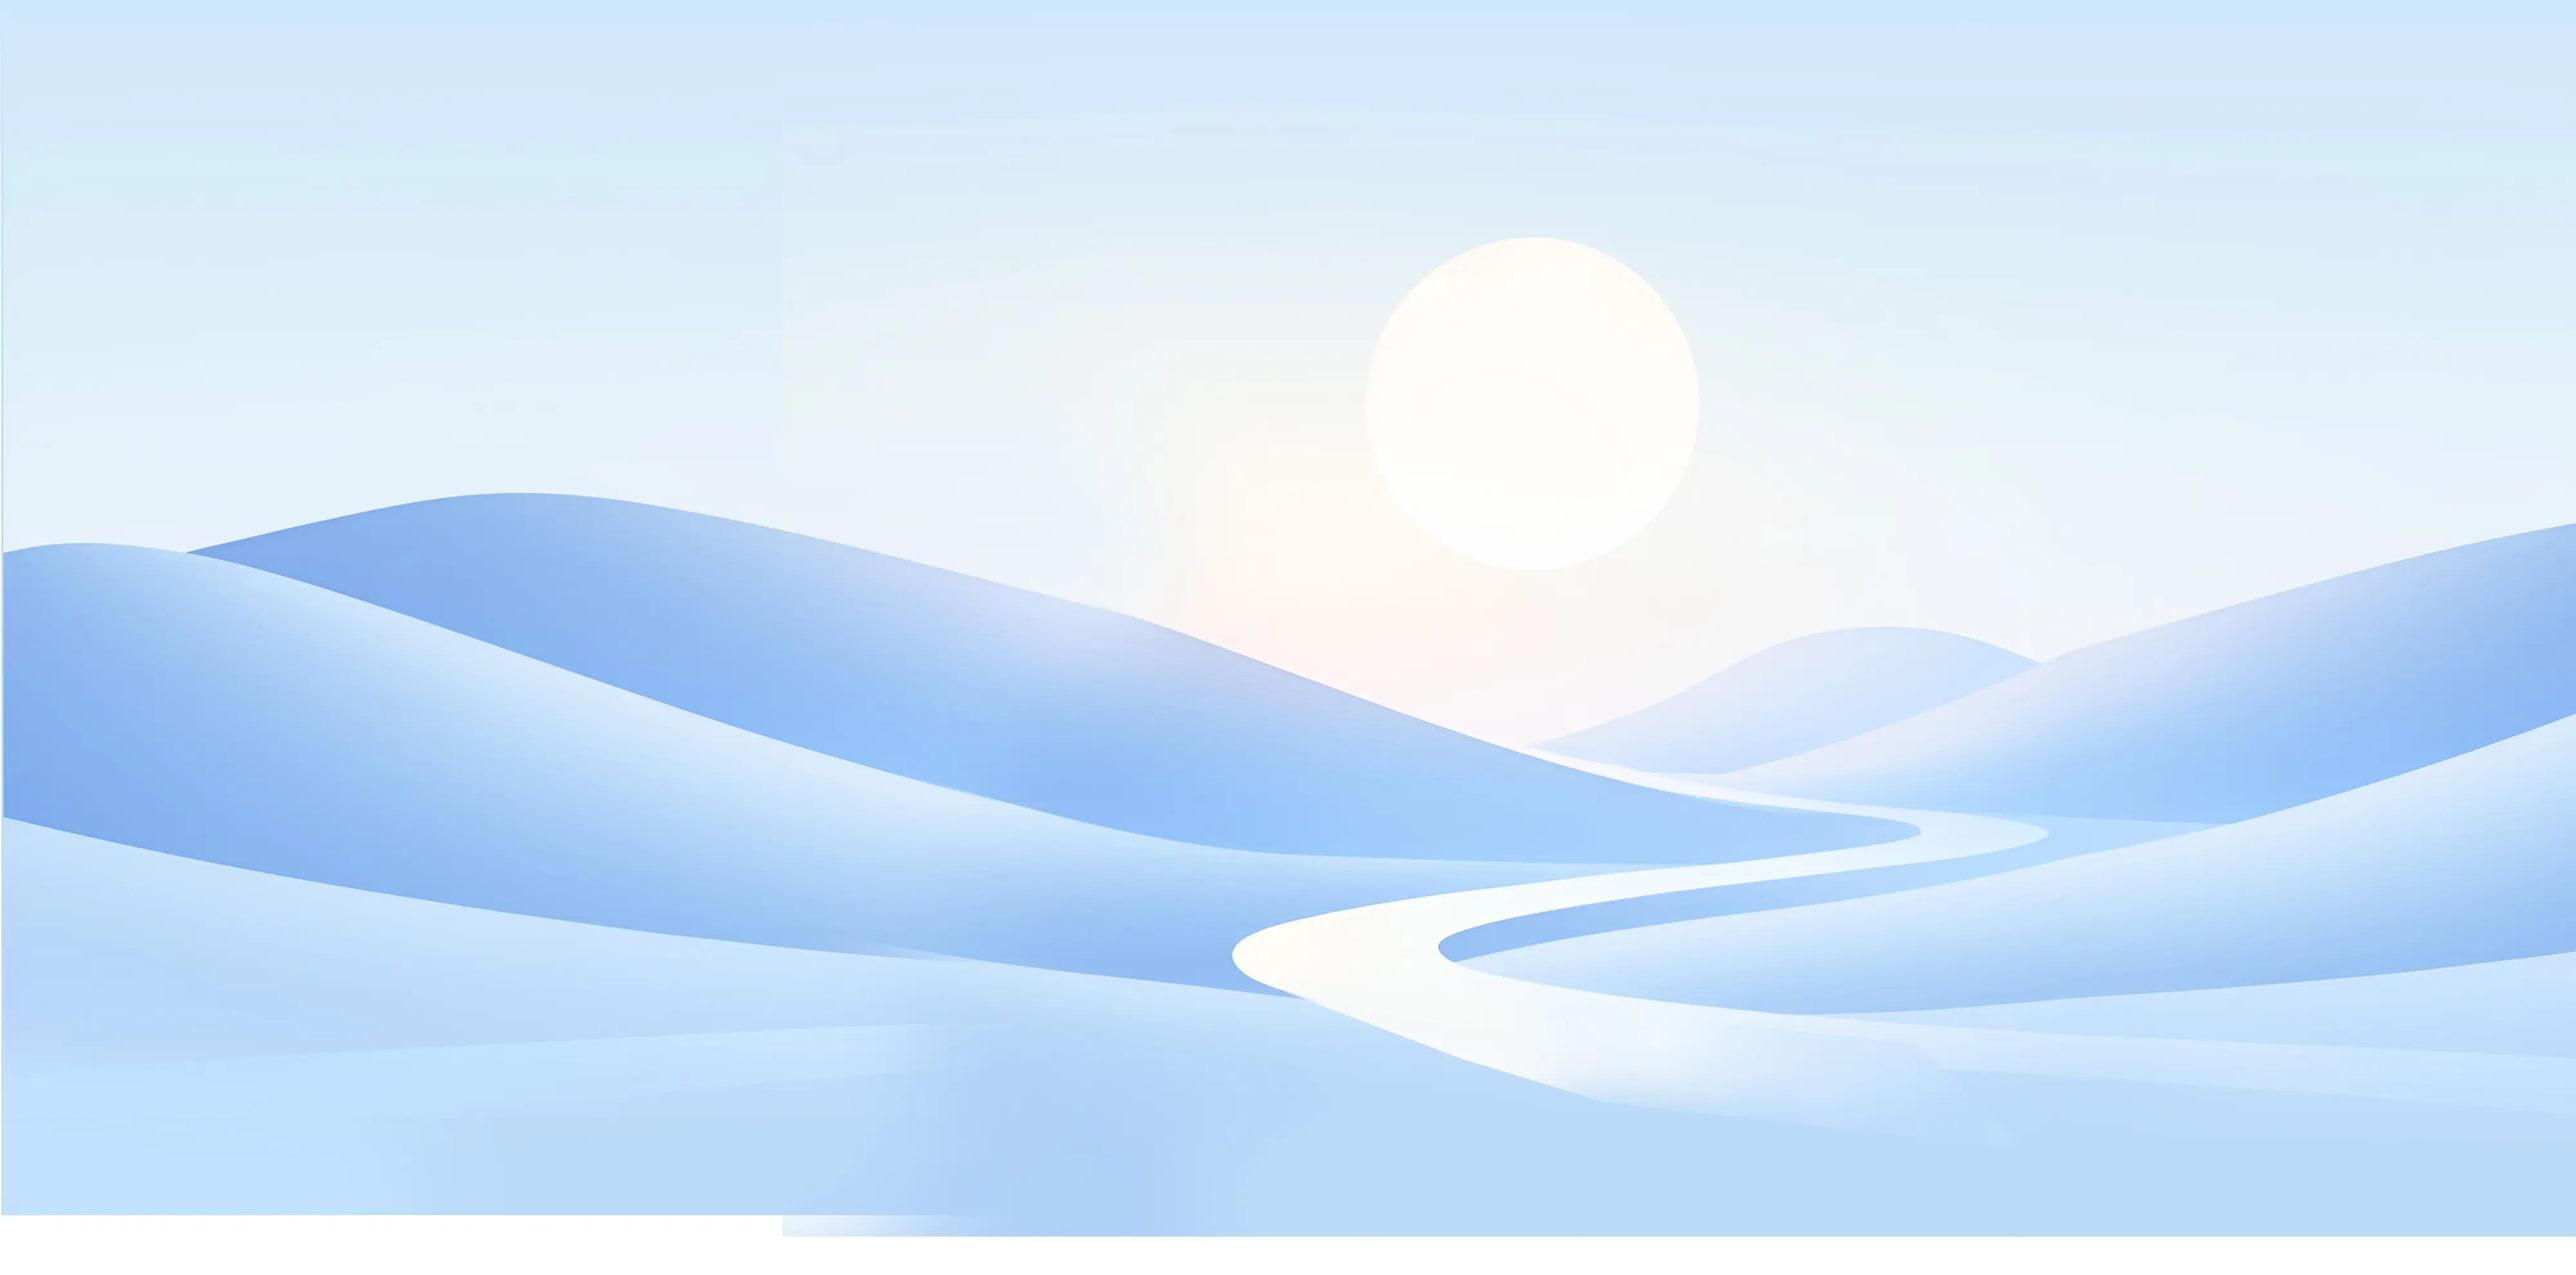
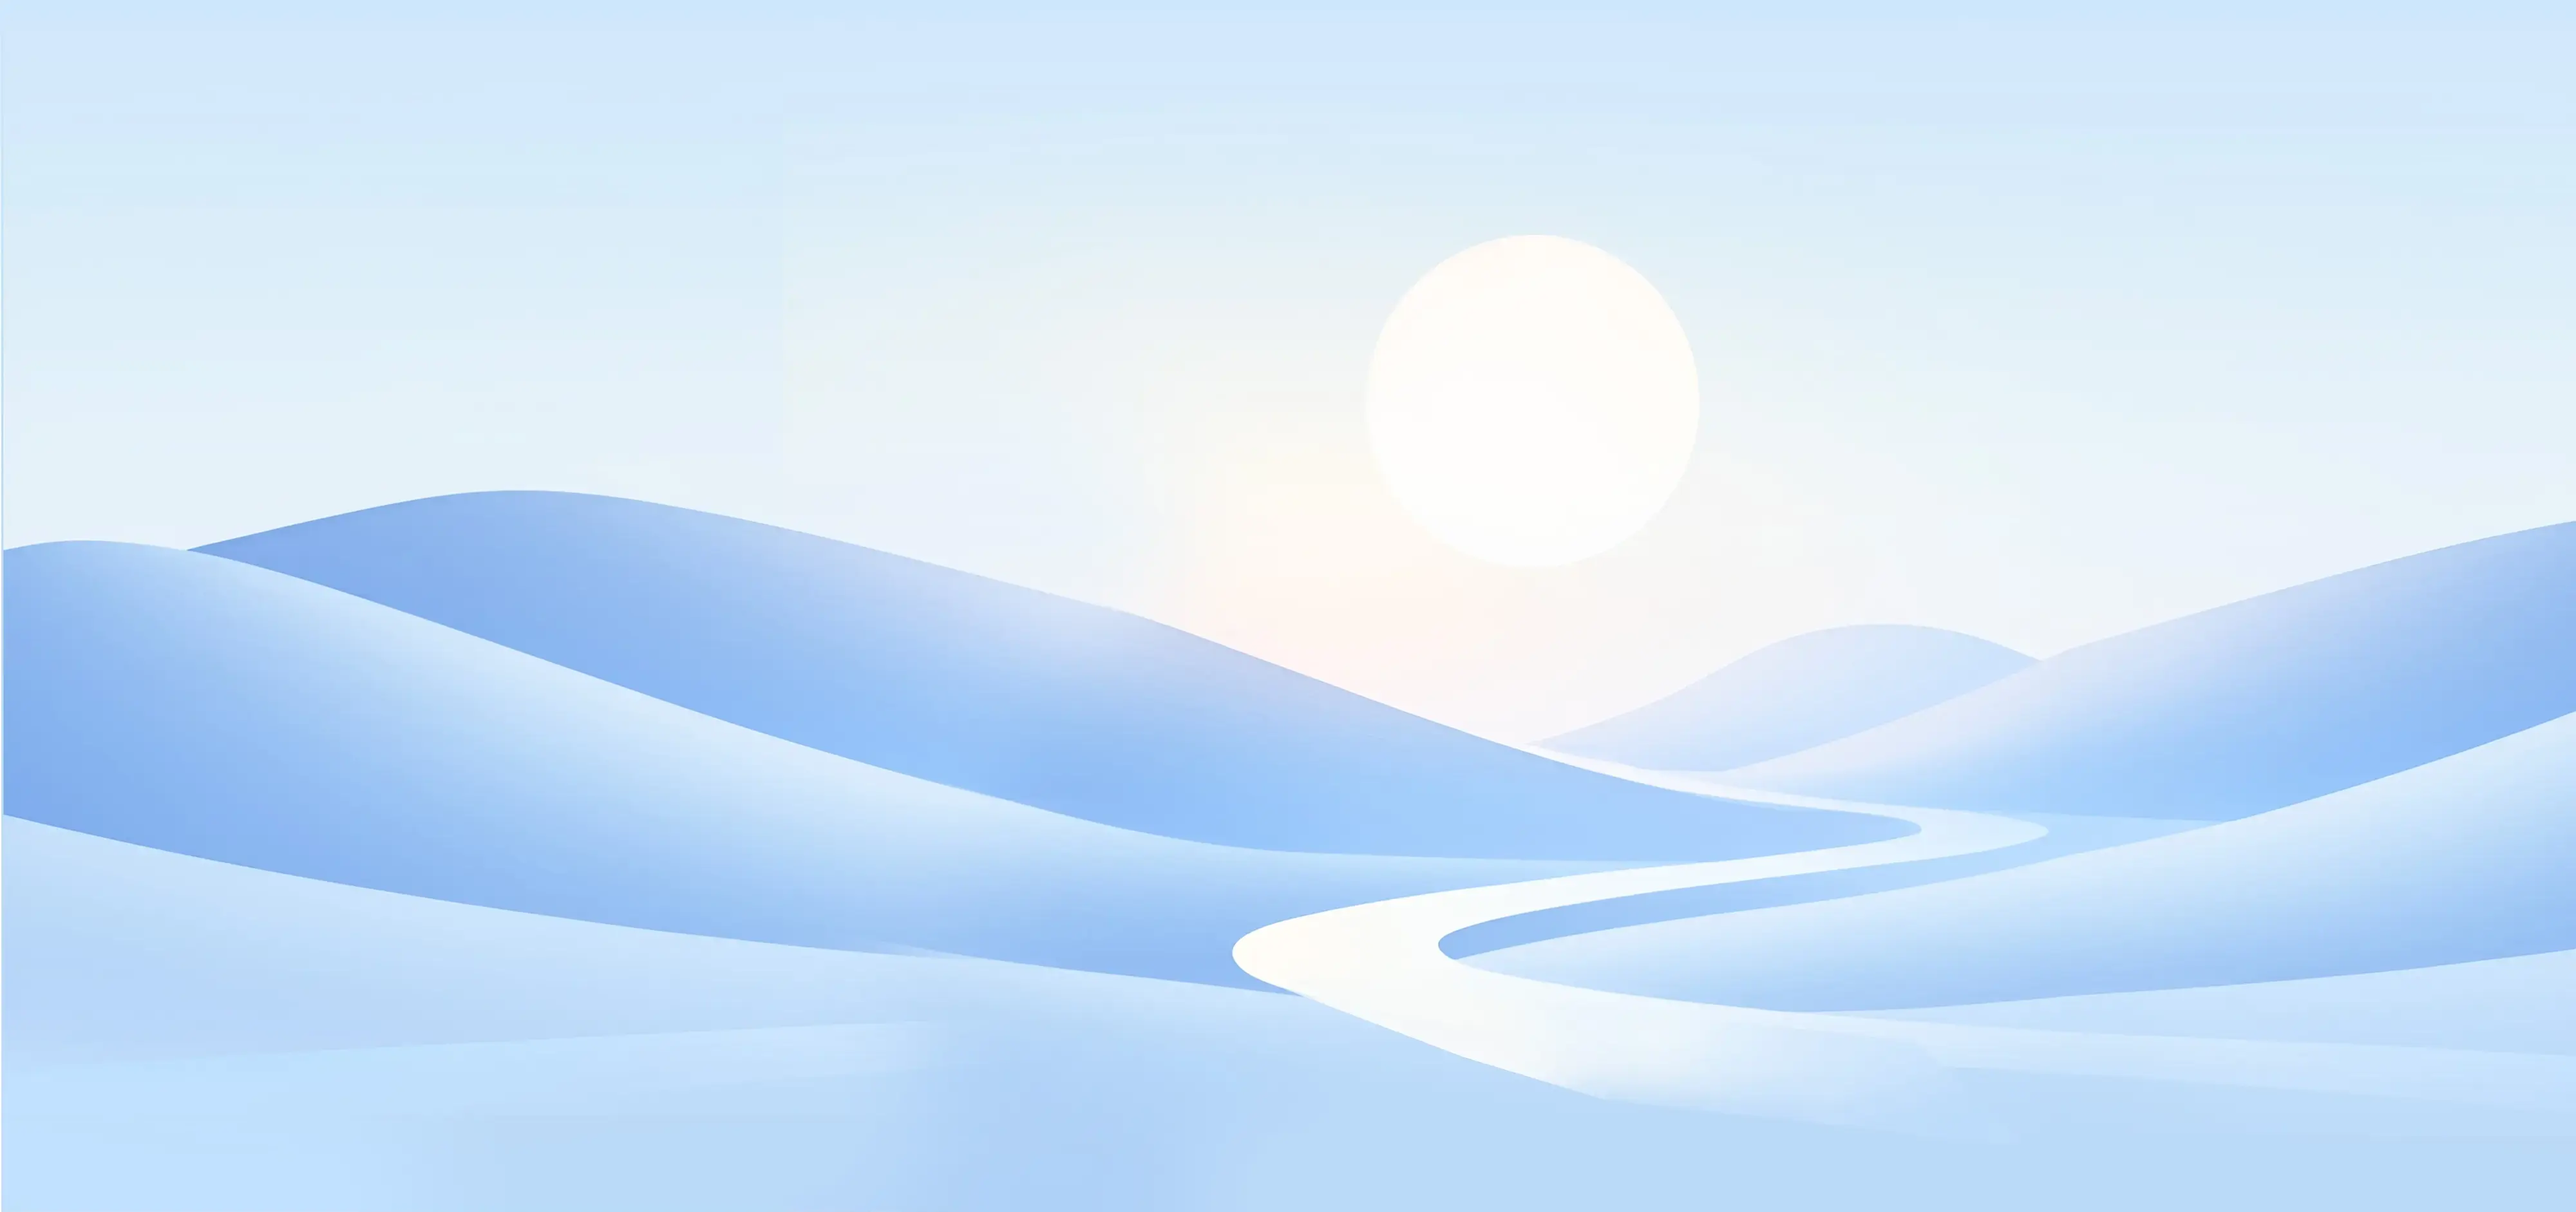
style：课程背景高度自适应 延伸渐变色

diff --git a/frontend/app/components/pc/BaseLayout.tsx b/frontend/app/components/pc/BaseLayout.tsx
@@ -1,5 +1,7 @@
+'use client';
+
 import { Box, Container, Typography } from '@mui/material';
-import React from 'react';
+import React, { useEffect, useRef, useState } from 'react';
 import { TitleBanner } from '../shared';
 import CategorySelector from './CategorySelector';
 
@@ -18,8 +20,56 @@ function BaseLayout({
   description,
   children,
 }: BaseLayoutProps) {
+  const containerRef = useRef<HTMLDivElement>(null);
+  const [imageHeight, setImageHeight] = useState<number>(680);
+
+  useEffect(() => {
+    const calculateImageHeight = () => {
+      if (!containerRef.current) return;
+
+      const container = containerRef.current;
+      const width = container.offsetWidth;
+      if (width === 0) return;
+
+      // 加载第一张图片来计算实际高度（因为它使用 100% auto）
+      const img = new Image();
+      img.src = '/images/course-bg-h.webp';
+
+      // 处理图片已缓存的情况
+      if (img.complete) {
+        const aspectRatio = img.height / img.width;
+        const calculatedHeight = width * aspectRatio;
+        setImageHeight(calculatedHeight);
+      } else {
+        img.onload = () => {
+          const aspectRatio = img.height / img.width;
+          const calculatedHeight = width * aspectRatio;
+          setImageHeight(calculatedHeight);
+        };
+      }
+    };
+
+    calculateImageHeight();
+
+    const resizeObserver = new ResizeObserver(() => {
+      calculateImageHeight();
+    });
+
+    if (containerRef.current) {
+      resizeObserver.observe(containerRef.current);
+    }
+
+    window.addEventListener('resize', calculateImageHeight);
+
+    return () => {
+      resizeObserver.disconnect();
+      window.removeEventListener('resize', calculateImageHeight);
+    };
+  }, []);
+
   return (
     <Container
+      ref={containerRef}
       maxWidth={'xxl'}
       sx={{
         position: 'relative',
@@ -28,35 +78,51 @@ function BaseLayout({
         justifyContent: 'center',
         m: 0,
         p: '0 !important',
-        backgroundImage: `
-          linear-gradient(
-            180deg,
-            rgba(224, 241, 255, 0.05) 0%,      /* #E0F1FF 浅天蓝色, 70%不透明 - 页面顶部起始色 */
-
-            rgba(217, 234, 252, 0.05) 0%,   /* #D9EAFC 淡蓝色, 70%不透明 - 中部蓝色调层 */
-
-            rgba(241, 247, 254, 0.7) 63.87%,   /* #F1F7FE 冰蓝白色, 70%不透明 - 向底部过渡 */
-
-            rgba(241, 247, 251, 1) 100%      /* #F5F7FB 灰蓝白色, 70%不透明 - 页面底部结束色 */
-          ),
-          url(/images/course-bg-h.webp),
-          url(/images/course-lesson-bg.webp)
-        `,
-        // backgroundSize 控制背景图片尺寸显示方式:
-        // 1. 第一个 'cover': 渐变主背景与第一张图片按容器完全覆盖显示
-        // 2. 第二个 'cover': 第二张图片同样覆盖
-        // 3. 第三个 'contain': 第三张图片自适应缩放以完整显示在容器内
-        backgroundSize: 'cover, 100%, contain',
-        // backgroundPosition 控制背景图像的位置:
-        // 1. 第一个 'center': 主背景线性渐变和第一张图片居中位置。
-        // 2. 第二个 'center': 第二张背景图同样居中。
-        // 3. '0% -14%': 第三张背景图片沿X轴左对齐，Y轴往上偏移14%，实现顶部视觉效果渐变融合。
-        backgroundPosition: 'top, top, 0% -15%',
-        backgroundRepeat: 'no-repeat',
+        '&::before': {
+          content: '""',
+          position: 'absolute',
+          top: 0,
+          left: 0,
+          right: 0,
+          width: '100%',
+          minHeight: '100%',
+          backgroundImage: 'url(/images/course-bg-h.webp)',
+          backgroundSize: '100% auto',
+          backgroundPosition: 'top center',
+          backgroundRepeat: 'no-repeat',
+          opacity: 1,
+          zIndex: 0,
+          pointerEvents: 'none',
+        },
+        '&::after': {
+          content: '""',
+          position: 'absolute',
+          top: 0,
+          left: 0,
+          right: 0,
+          width: '100%',
+          height: '100%',
+          backgroundImage: `
+              linear-gradient(
+              180deg,
+              transparent 0%,
+              transparent ${imageHeight}px,
+              rgba(245, 247, 251, 1) ${imageHeight}px,
+              rgba(241, 247, 254, 1) 45%,
+              rgba(241, 247, 251, 1) 100%
+            )
+          `,
+          backgroundSize: '100% 100%',
+          backgroundRepeat: 'no-repeat',
+          zIndex: 1,
+          pointerEvents: 'none',
+        },
       }}
     >
       <Box
         sx={{
+          position: 'relative',
+          zIndex: 2,
           minWidth: { lg: 1060, xlg: 1080, xl: 1400, xxl: 1420 },
           maxWidth: { lg: 1060, xlg: 1080, xl: 1400, xxl: 1420 },
         }}
